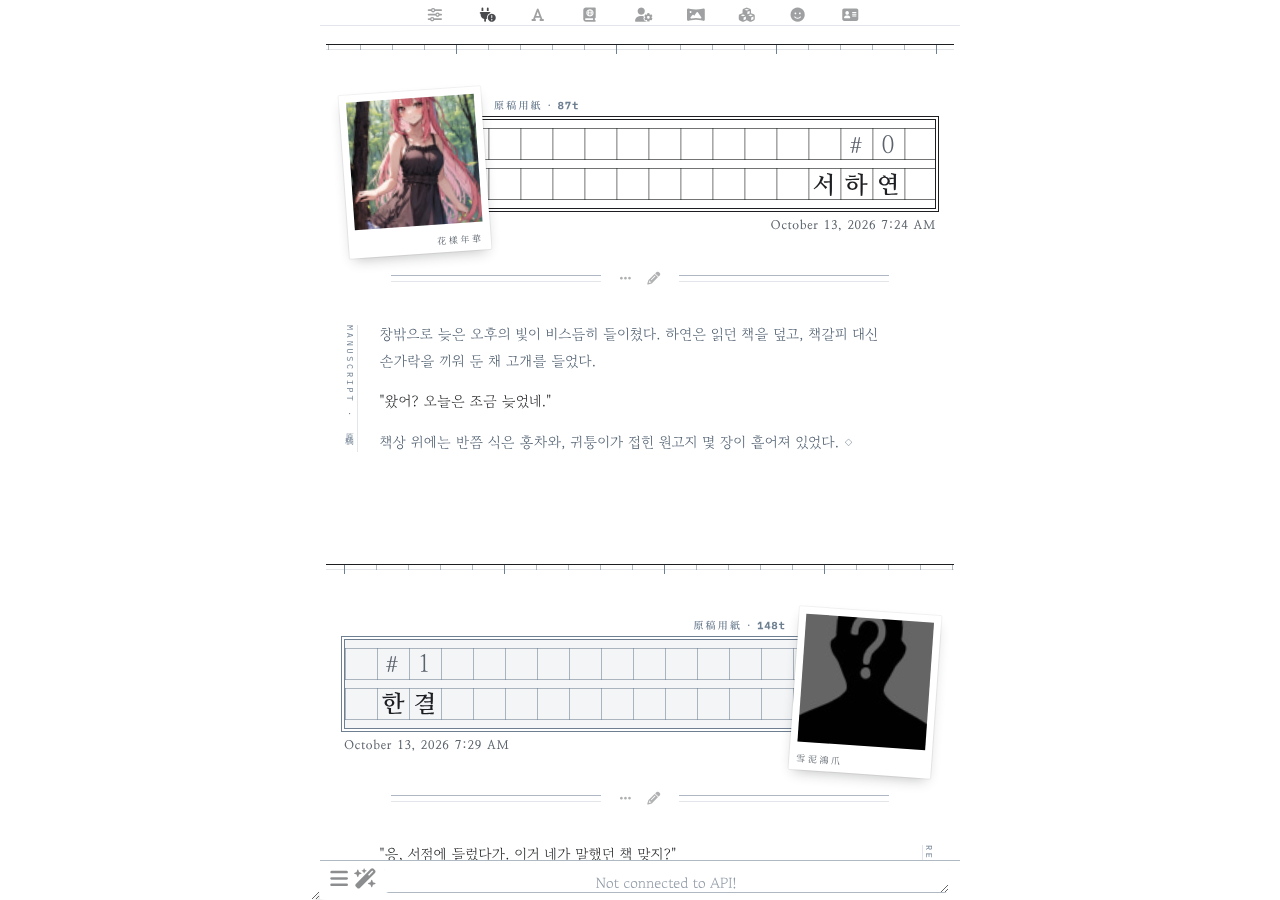
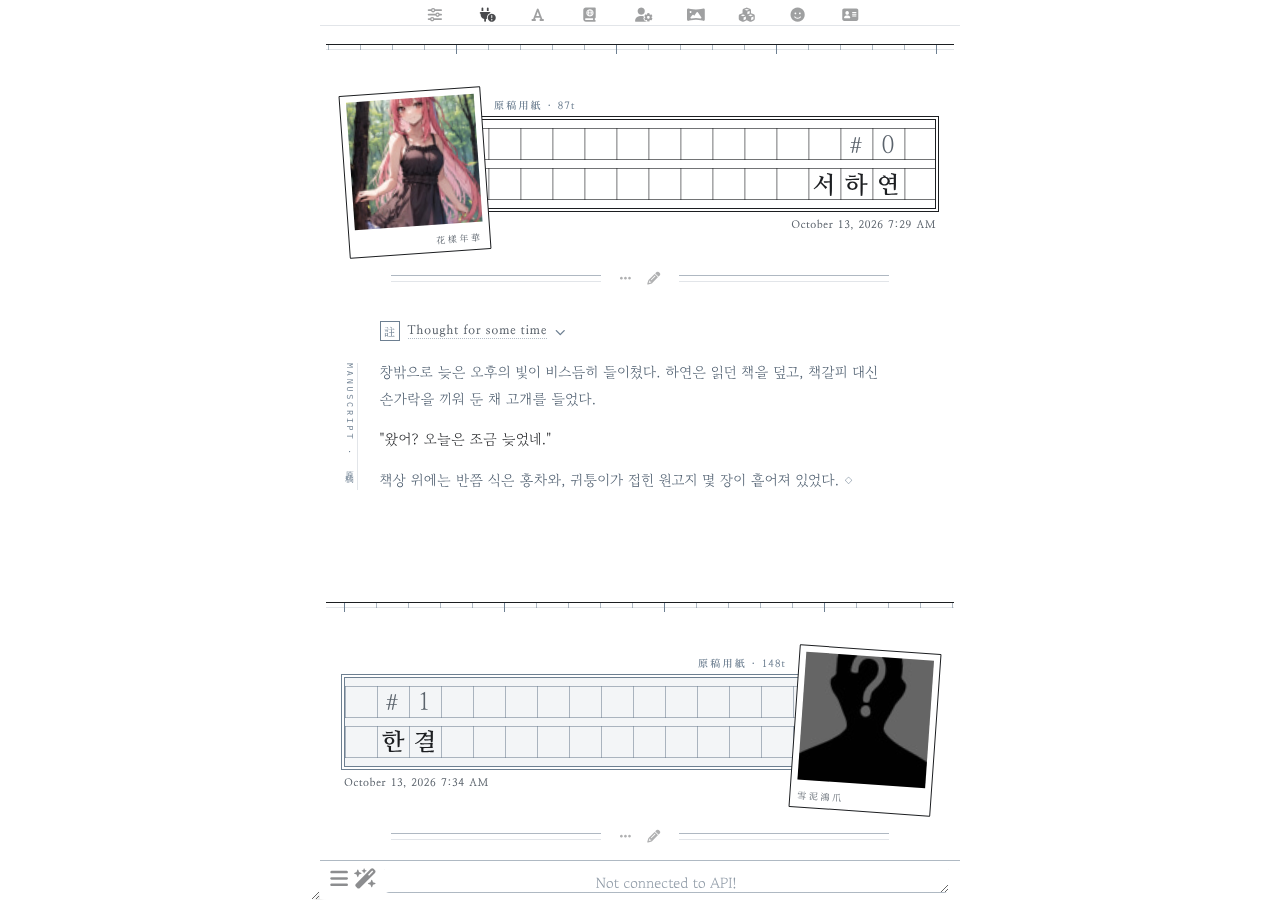
Wongoji: outlined polaroid, compact reasoning note, smaller date
- Polaroid separated by an ink outline instead of a drop shadow
- Reasoning block restyled as a margin note: no box, a 註 mark and a
  one-line title when collapsed; when open, small text under a left
  rule, capped at 40vh
- Date below the band shrunk to 10.5px
- Token label set in Nanum Myeongjo

Claude-Session: https://claude.ai/code/session_01VxNZVdN99GR1yFwUVAN4mT

diff --git a/src/wongoji.css b/src/wongoji.css
@@ -293,9 +293,8 @@ body {
     background: #ffffff;
     border-radius: 1px;
     transform: rotate(var(--wg-tilt));
-    box-shadow:
-        0 0 0 1px rgba(28, 30, 33, 0.06),
-        0 6px 14px -5px rgba(28, 30, 33, 0.30);
+    border: 1px solid var(--wg-ink);
+    box-shadow: none;
     z-index: 2;
     transition: transform var(--animation-duration-2x) ease;
 }
@@ -342,7 +341,7 @@ body {
     width: auto !important;
     max-width: none !important;
     font-family: var(--wg-title) !important;
-    font-size: 12px !important;
+    font-size: 10.5px !important;
     font-weight: 700;
     line-height: 16px !important;
     letter-spacing: 0.06em !important;
@@ -425,7 +424,8 @@ body.no-mesIDDisplay #chat .mes::before {
     margin: 0;
     padding: 0;
     line-height: 14px;
-    font-family: var(--wg-mono);
+    font-family: var(--wg-title);
+    font-weight: 700;
     font-size: 10px;
     letter-spacing: 0.12em;
     color: var(--wg-print);
@@ -859,27 +859,78 @@ body.no-tokenCount #chat .mes .ch_name::after {
     color: var(--wg-ink);
 }
 
-/* 생각(추론) 블록 — 원고 위에 끼운 쪽지 */
+/* 생각(추론) — 원고 여백의 퇴고 메모. 접으면 한 줄, 펼치면 왼쪽 괘선 아래 작은 글씨 */
 #chat .mes .mes_reasoning_details {
-    margin: 0 0 12px;
-    padding: 6px 14px;
-    background: var(--wg-wash);
-    border: 1px dashed var(--wg-print);
-    border-radius: 8px;
+    margin: 0 var(--wg-measure) 14px;
+    padding: 0;
+    background: none;
+    border: 0;
+    border-radius: 0;
 }
 
 #chat .mes .mes_reasoning_summary {
-    font-family: var(--wg-mono);
+    margin: 0;
+    align-items: center;
+    font-family: var(--wg-title);
     font-size: 12px;
     color: var(--wg-ink-soft);
 }
 
-#chat .mes .mes_reasoning {
-    font-family: var(--wg-serif);
-    font-size: calc(var(--wg-text) * 0.93);
-    line-height: 1.8;
+#chat .mes .mes_reasoning_header {
+    margin: 0;
+    padding: 2px 18px 2px 0;
+    background: none;
+    border: 0;
+    border-radius: 0;
+    font-family: var(--wg-title);
+    font-size: 12px;
+    font-weight: 700;
+    letter-spacing: 0.08em;
     color: var(--wg-ink-soft);
-    padding: 6px 0 4px;
+    align-items: center;
+    gap: 8px;
+}
+
+#chat .mes .mes_reasoning_header::before {
+    content: '註';
+    display: inline-flex;
+    align-items: center;
+    justify-content: center;
+    width: 18px;
+    height: 18px;
+    flex: none;
+    border: 1px solid var(--wg-print);
+    font-family: var(--wg-hanja);
+    font-size: 11px;
+    font-weight: 400;
+    letter-spacing: 0;
+    color: var(--wg-print);
+}
+
+#chat .mes .mes_reasoning_header_title {
+    margin: 0;
+    border-bottom: 1px dotted var(--wg-print-line);
+}
+
+#chat .mes .mes_reasoning_arrow {
+    right: 0;
+    color: var(--wg-print);
+}
+
+#chat .mes .mes_reasoning_actions .mes_button {
+    font-size: 12px;
+}
+
+#chat .mes .mes_reasoning {
+    margin: 8px 0 2px 8px;
+    padding: 2px 0 2px 16px;
+    border-left: 1px solid var(--wg-print-line);
+    font-family: var(--wg-serif);
+    font-size: calc(var(--wg-text) * 0.86);
+    line-height: 1.75;
+    color: var(--wg-ink-soft);
+    max-height: 40vh;
+    overflow-y: auto;
 }
 
 /* 스와이프 */

diff --git a/README.md b/README.md
@@ -16,14 +16,15 @@ SillyTavern UI 테마입니다. 흰 바탕과 먹, 청회색으로 인쇄된 원
   - 날짜 형식은 SillyTavern의 표시 언어를 따릅니다. 사용자 설정 → Language를 **한국어**로 두면 `2026년 10월 13일 오전 7:13`처럼 한글로 나옵니다.
   - 이름이나 날짜가 길면 다음 줄로 넘어가고, 띠도 그만큼 늘어납니다. 폴라로이드는 늘어난 띠의 세로 가운데에 놓입니다.
   - 띠 위 여백에는 `原稿用紙 · 412t`처럼 메시지의 토큰 수가 인쇄됩니다. 토큰 수 표시(Message Token Count)를 끄면 `原稿用紙`만 남습니다.
-- **폴라로이드**: 아바타는 컬러 폴라로이드로 띠 위에 비스듬히 겹쳐 놓입니다. 아래 여백 구석에는 사자성어가 명조체로 작게 인쇄됩니다. 캐릭터는 `花樣年華`(화양연화, 인생에서 가장 아름다운 한때), 유저는 `雪泥鴻爪`(설니홍조, 눈 위에 남은 기러기 발자국처럼 덧없는 삶의 흔적)이고, 원하는 글귀로 쉽게 바꿀 수 있습니다(아래 참고).
+- **폴라로이드**: 아바타는 먹색 테두리의 컬러 폴라로이드로 띠 위에 비스듬히 겹쳐 놓입니다. 아래 여백 구석에는 사자성어가 명조체로 작게 인쇄됩니다. 캐릭터는 `花樣年華`(화양연화, 인생에서 가장 아름다운 한때), 유저는 `雪泥鴻爪`(설니홍조, 눈 위에 남은 기러기 발자국처럼 덧없는 삶의 흔적)이고, 원하는 글귀로 쉽게 바꿀 수 있습니다(아래 참고).
 - **버튼 줄**: 띠와 본문 사이 가운데에 메시지 버튼을 두고, 그 양옆에 가는 이중 괘선을 그었습니다.
+- **생각(추론)**: 상자 없이 `註` 표시와 한 줄 제목으로 접혀 있고, 펼치면 왼쪽 괘선 아래 작은 글씨로 보입니다. 길면 화면 높이의 40%까지만 차지하고 스크롤됩니다.
 - **본문**: 가독성을 위해 틀과 칸 배경 없이 종이 위에 바로 씁니다. 본문 옆에 책등처럼 세로 표기(`MANUSCRIPT · 原稿`, `REPLY · 答書`)가 붙고, 글 끝에는 마침 기호 `◇`가 찍힙니다.
 - **문장 표현**: 대사와 본문은 먹색, 지문과 속마음은 청회색입니다. 인용(`>`)은 책 뒤표지의 제사(題辭)처럼 큰 따옴표가 달린 가운데 정렬 청회색 상자로, 장면 전환(`---`)은 `＊`로 보입니다.
 - **색**: 화면 요소는 흑백과 청회색만 씁니다(아바타 사진은 원래 색 그대로). 유저 원고지는 아주 옅은 청회색이고, 그림자와 블러는 없습니다.
 - **상단 메뉴 · 입력창**: 아이콘을 작게 줄여 가운데로 모으고, 연한 선 하나로만 구분했습니다. 모바일에서도 입력창 아이콘이 PC처럼 한 줄로 놓입니다.
 
-서체(Google Fonts): 고운바탕(본문), 나눔명조(이름·날짜·제목·인용), Noto Serif KR(한자 글귀), IBM Plex Mono(번호·토큰 수).
+서체(Google Fonts): 고운바탕(본문), 나눔명조(이름·날짜·제목·인용), Noto Serif KR(한자 글귀).
 
 ## 설치
 
